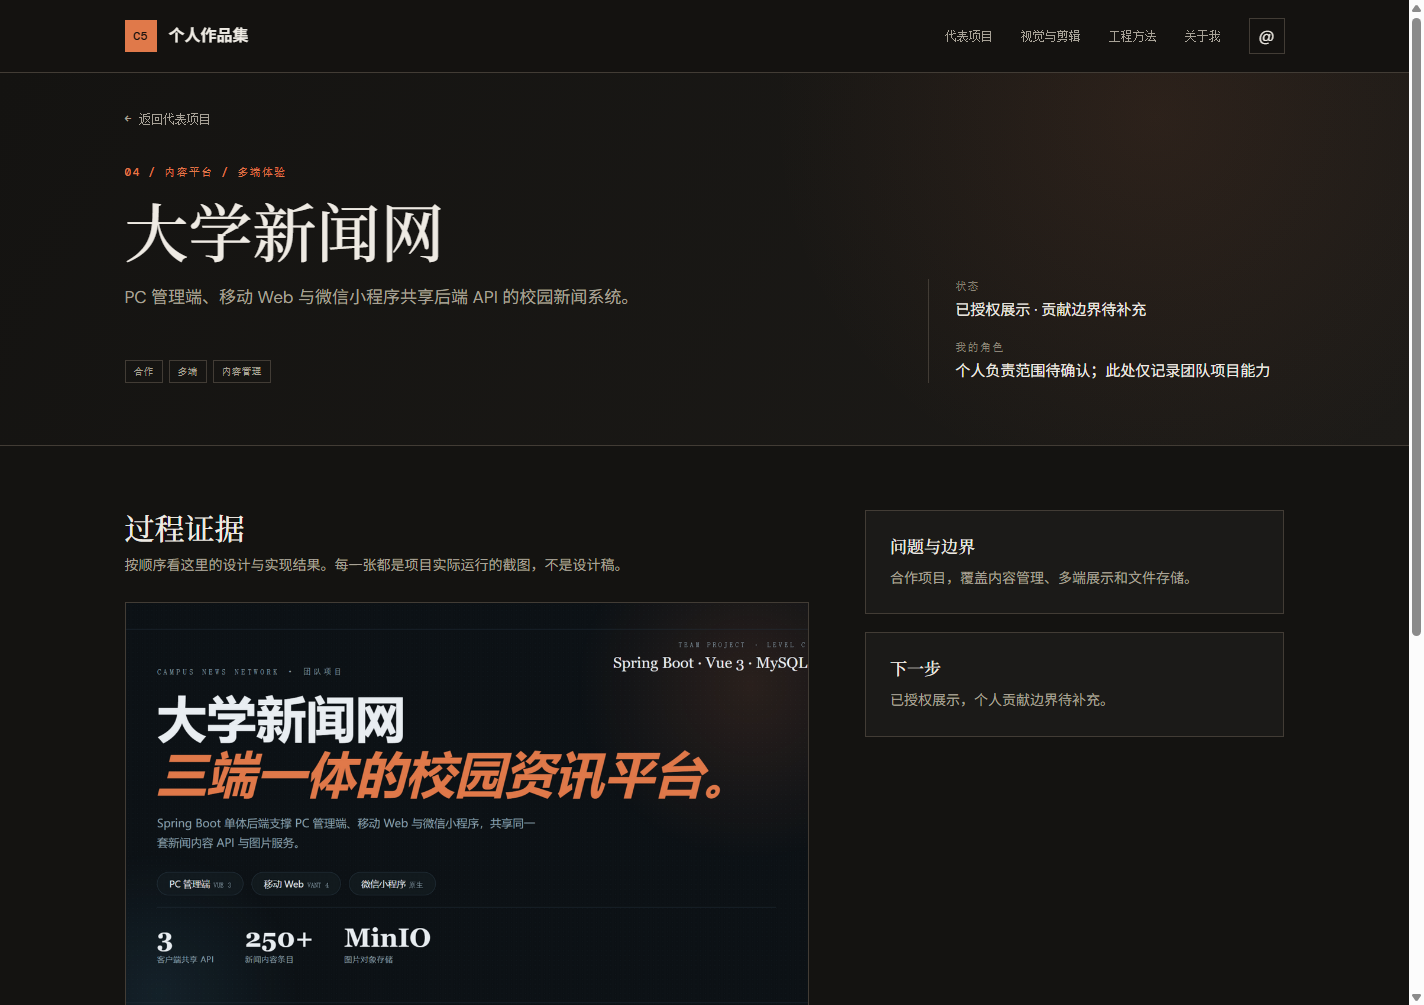
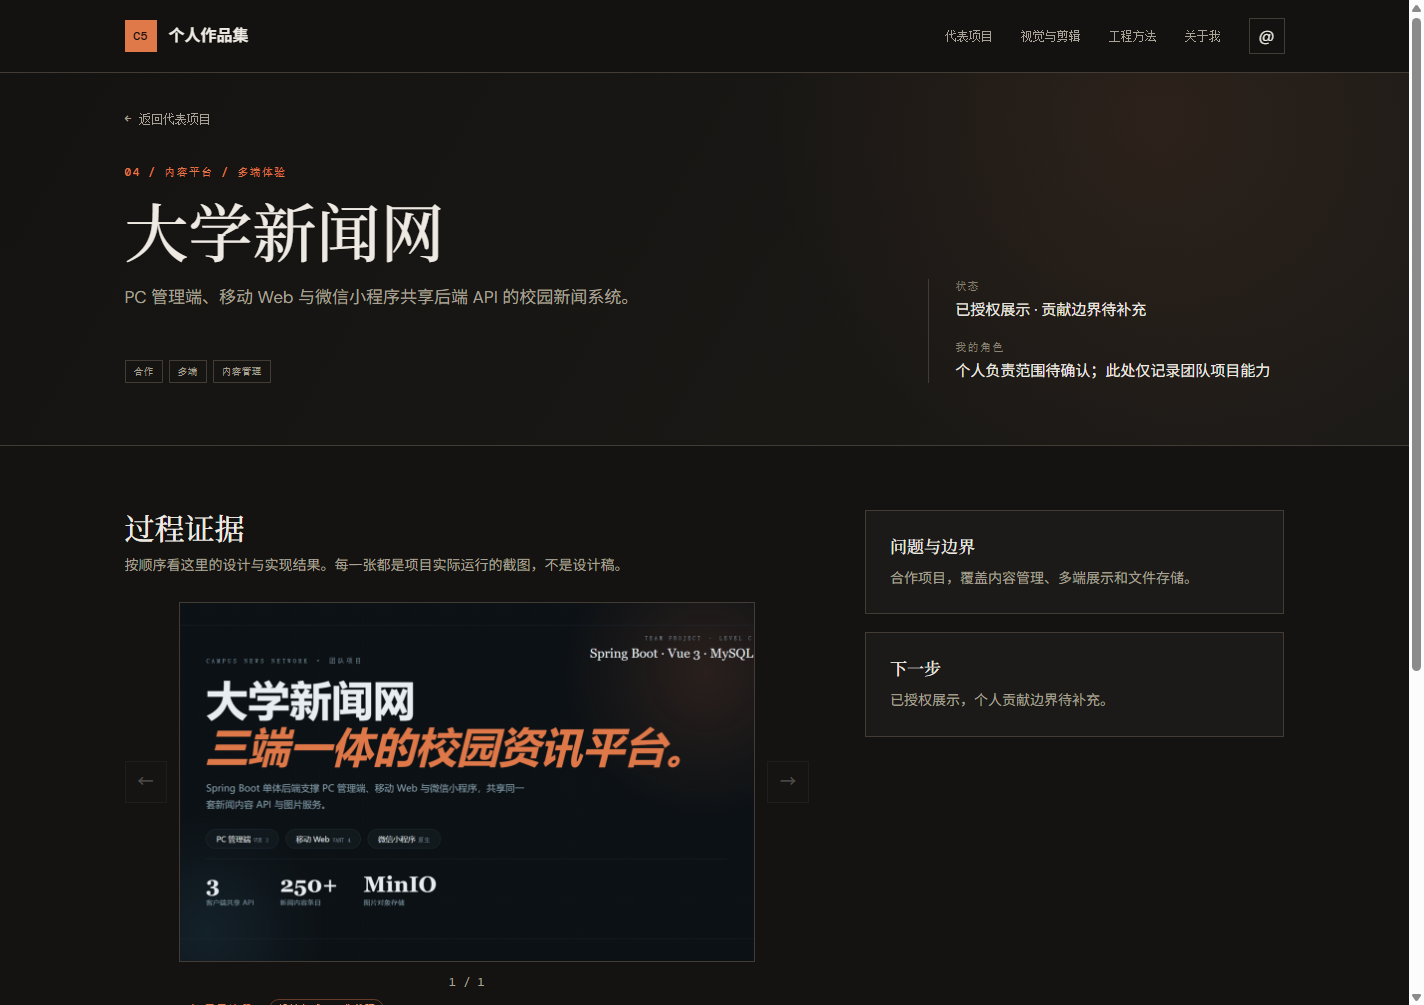
fix: place gallery arrows beside the image and add click-to-zoom
图组交互（用户反馈）：
- 左右切换按钮原先排在图片下方，现移到图片左右两侧，与图片同一行垂直居中。
- 图片原先不可放大。现点击图片打开全屏放大层，放大层内可用左右箭头继续翻页、
  用 Escape 或点击背景关闭，并显示对应的步骤与说明。图片可键盘聚焦并回车打开。
- 鼠标悬停时显示「点击放大」提示，图片有轻微缩放反馈。

文案对齐（用户反馈）：
- 两个 AI 项目的品类由「AI 产品 / 学习工具」「AI 产品 / 知识库 RAG」
  改为「语言学习 / 翻译工具」「知识库 / 检索问答」，
  与另两个项目的「品类 / 形态」写法一致。
  这与 doc/19 已确认的方向一致：AI 作为能力方向，而不是对外表达的唯一主语。
- Folio 摘要去掉了技术缩写，改为描述实际链路。
- 标签由纯技术栈改为「能力 + 技术」混合，与另两个项目一致。

验收：utils/browser-check.mjs 38 项全部通过，新增左右箭头位置、点击放大、
放大层内翻页与 Escape 关闭四项断言。

diff --git a/project/frontend/src/data/projects.js b/project/frontend/src/data/projects.js
@@ -3,8 +3,8 @@
 import { ref } from 'vue'
 
 export const fallbackProjects = [
-  { id: 1, slug: 'ai-translator', title: 'LexiFlow', repoName: 'ai-translator', summary: '面向英语学习者的无广告翻译与生词学习工具，把一次翻译延展为可持续的学习闭环。', background: '翻译、收藏、复习和统计共同组成学习闭环。', outcome: '已实现核心闭环，等待补齐正式发布证据。', role: '产品设计、全栈开发、部署与验证规划', projectType: 'AI 产品 / 学习工具', project_type: 'INDEPENDENT', status: '已实现 · 待补正式发布证据', tags: ['FastAPI', 'Vue 3', '学习闭环'], image: '/assets/v5/translator-home.png', visualKind: 'screenshot', evidence: '3 张已核验截图 · 引擎降级提示的证据待补', gallery: [{ src: '/assets/v5/translator-home.png', step: 'STEP 01 / 入口', caption: '首页「每日一词」。把工具的入口前置成每天可以回访的学习动作，而不是一次性的翻译框。' }, { src: '/assets/v5/lexiflow-translate-result.png', step: 'STEP 02 / 核心链路', caption: '真实翻译结果。输入一句英文，模型返回中文译文，下方列出可继续查词的高频词。截图取自本地实跑，不是设计稿。' }, { src: '/assets/v5/lexiflow-quota-limit.png', step: 'STEP 03 / 边界处理', caption: '匿名游客每日 3 次免费翻译，用完后不静默失败，而是引导登录。配额按匿名标识独立计数，登录用户不受限。' }] },
-  { id: 2, slug: 'ai-second-brain', title: 'Folio', repoName: 'ai-second-brain', summary: '从文档解析到 SSE 对话的知识库问答系统，让私有资料真正参与日常问答。', background: '把文档上传、切片、检索和流式对话连接起来。', outcome: '已完成独立项目闭环，正在整理公开版本证据。', role: '产品建模、Java 全栈开发、测试与部署', projectType: 'AI 产品 / 知识库 RAG', project_type: 'SOLO', status: '已实现 · 发布前复核', tags: ['RAG', 'Spring Boot', 'SSE'], image: '/assets/v5/brain-chat-cited.png', visualKind: 'screenshot', evidence: '3 张已核验截图 · 均为独立演示账号采集，不含真实资料', gallery: [{ src: '/assets/v5/secondbrain-login.png', step: 'STEP 01 / 身份入口', caption: '登录页。左侧说明产品定位，右侧为登录表单。系统区分管理员与普通用户，文档、会话与模型配置按账号隔离。' }, { src: '/assets/v5/brain-documents.png', step: 'STEP 02 / 文档管理', caption: '文档上传与处理状态。上传后经过解析、递归切片和本地 BGE 向量化，页面上显示每个文档的切片数量。截图为演示账号，未包含真实资料。' }, { src: '/assets/v5/brain-chat-cited.png', step: 'STEP 03 / 核心链路', caption: '知识库对话。回答基于检索到的片段生成，并给出引用片段与相似度分数；这份材料只覆盖了问题的一部分，回答就明确说明缺失，而不是编造补全。' }] },
+  { id: 1, slug: 'ai-translator', title: 'LexiFlow', repoName: 'ai-translator', summary: '面向英语学习者的无广告翻译与生词学习工具，把一次翻译延展为可持续的学习闭环。', background: '翻译、收藏、复习和统计共同组成学习闭环。', outcome: '已实现核心闭环，等待补齐正式发布证据。', role: '产品设计、全栈开发、部署与验证规划', projectType: '语言学习 / 翻译工具', project_type: 'INDEPENDENT', status: '已实现 · 待补正式发布证据', tags: ['翻译', '生词复习', 'FastAPI'], image: '/assets/v5/translator-home.png', visualKind: 'screenshot', evidence: '3 张已核验截图 · 引擎降级提示的证据待补', gallery: [{ src: '/assets/v5/translator-home.png', step: 'STEP 01 / 入口', caption: '首页「每日一词」。把工具的入口前置成每天可以回访的学习动作，而不是一次性的翻译框。' }, { src: '/assets/v5/lexiflow-translate-result.png', step: 'STEP 02 / 核心链路', caption: '真实翻译结果。输入一句英文，模型返回中文译文，下方列出可继续查词的高频词。截图取自本地实跑，不是设计稿。' }, { src: '/assets/v5/lexiflow-quota-limit.png', step: 'STEP 03 / 边界处理', caption: '匿名游客每日 3 次免费翻译，用完后不静默失败，而是引导登录。配额按匿名标识独立计数，登录用户不受限。' }] },
+  { id: 2, slug: 'ai-second-brain', title: 'Folio', repoName: 'ai-second-brain', summary: '把文档整理、切片检索与问答连成一条链路，回答只依据上传的资料，并标注来源。', background: '把文档上传、切片、检索和流式对话连接起来。', outcome: '已完成独立项目闭环，正在整理公开版本证据。', role: '产品建模、Java 全栈开发、测试与部署', projectType: '知识库 / 检索问答', project_type: 'SOLO', status: '已实现 · 发布前复核', tags: ['文档检索', '引用溯源', 'Spring Boot'], image: '/assets/v5/brain-chat-cited.png', visualKind: 'screenshot', evidence: '3 张已核验截图 · 均为独立演示账号采集，不含真实资料', gallery: [{ src: '/assets/v5/secondbrain-login.png', step: 'STEP 01 / 身份入口', caption: '登录页。左侧说明产品定位，右侧为登录表单。系统区分管理员与普通用户，文档、会话与模型配置按账号隔离。' }, { src: '/assets/v5/brain-documents.png', step: 'STEP 02 / 文档管理', caption: '文档上传与处理状态。上传后经过解析、递归切片和本地 BGE 向量化，页面上显示每个文档的切片数量。截图为演示账号，未包含真实资料。' }, { src: '/assets/v5/brain-chat-cited.png', step: 'STEP 03 / 核心链路', caption: '知识库对话。回答基于检索到的片段生成，并给出引用片段与相似度分数；这份材料只覆盖了问题的一部分，回答就明确说明缺失，而不是编造补全。' }] },
   { id: 3, slug: 'zhiheng-teaching', title: '高中个性化教学平台 · 知衡', summary: '围绕题库、考试、掌握度、错题和练习构建三角色教学分析闭环。', background: '用清晰的数据流连接管理员、老师和学生的日常工作。', outcome: '补齐学生端与管理员端页面、知识点建表与知识图谱，然后处理部署。当前为单机演示数据，未压测、未部署。', role: '产品定义、信息架构、Java 后端与 Vue 前端开发、测试与验收', projectType: '教育产品 / 全栈应用', project_type: 'INDEPENDENT', status: '教师端考试闭环已交付 · 学生端后端完成、前端待补', tags: ['Spring Boot', 'Vue 3', '三角色'], image: '/assets/v5/zhiheng-dashboard.png', visualKind: 'screenshot', evidence: '真实前后端与数据库 · 8 次版本化迁移 · 51 项后端测试 · 考试分析页存在接口缺陷待修', gallery: [{ src: '/assets/v5/zhiheng-dashboard.png', step: 'STEP 01 / 教师工作台', caption: '教师工作台。班级平均掌握度、待批改考试、需关注学生与可用题目数都由最近一次真实考试的结果聚合得出，数据来自后端接口而非写死的演示值。' }, { src: '/assets/v5/zhiheng-questions.png', step: 'STEP 02 / 题库管理', caption: '题库管理：支持单选、多选、判断、填空、解答五种题型，可维护知识点、难度与分值，也支持按模板 Excel 批量导入。' }, { src: '/assets/v5/zhiheng-grading.png', step: 'STEP 03 / 逐题改卷', caption: '逐题改卷。按学生逐题录入得分，前端限制分数不得超过该题满分，左侧实时显示每位学生的录入进度。这是线下考试闭环里最关键的一步。' }] },
   { id: 4, slug: 'university-news', title: '大学新闻网', summary: 'PC 管理端、移动 Web 与微信小程序共享后端 API 的校园新闻系统。', background: '合作项目，覆盖内容管理、多端展示和文件存储。', outcome: '已授权展示，个人贡献边界待补充。', role: '个人负责范围待确认；此处仅记录团队项目能力', projectType: '内容平台 / 多端体验', project_type: 'COLLABORATIVE', status: '已授权展示 · 贡献边界待补充', tags: ['合作', '多端', '内容管理'], image: '/assets/v5/news-cover.png', visualKind: 'layout', evidence: '当前仅有设计版式 · 截图需先确认团队授权与贡献边界', gallery: [{ src: '/assets/v5/news-cover.png', step: 'STEP 01 / 展示边界', caption: '这一张是设计版式，不是系统截图。合作项目在取得团队授权前，不使用学校实景与具体新闻内容，个人贡献边界同样待确认。' }] },
 ]

diff --git a/project/frontend/src/style.css b/project/frontend/src/style.css
@@ -3,13 +3,24 @@
 @media(max-width:900px){.shell{width:min(100% - 40px,680px)}.hero-grid,.about-grid,.section-heading{grid-template-columns:1fr;gap:34px}.hero-section{min-height:auto}.hero-grid{padding:72px 0}.hero-facts{padding-left:0;border-left:0}.nav-links{position:absolute;top:72px;left:0;right:0;display:none;flex-direction:column;gap:0;margin:0;padding:12px 20px 18px;background:var(--panel);border-bottom:1px solid var(--line)}.nav-links.open{display:flex}.nav-links a{padding:12px 0}.menu-button{display:grid}.project-card{grid-template-columns:1fr}.project-visual{min-height:210px;grid-row:1}.project-card-body{min-height:300px}.holding-row{grid-template-columns:1fr;gap:12px}.holding-row .hold-status{justify-self:start}.method-list article{grid-template-columns:55px 1fr;gap:12px}.method-list p{grid-column:2}.footer-wrap{flex-wrap:wrap;gap:14px}.drawer{padding:22px 20px}.drawer h2{font-size:36px}}
 @media(prefers-reduced-motion:reduce){*,*:before,*:after{scroll-behavior:auto!important;transition:none!important}}
 .gallery{display:grid;gap:12px;margin:0 0 26px}
-.gallery-stage{margin:0;border:1px solid var(--line);background:var(--panel-2);aspect-ratio:16/10;overflow:hidden}
-.gallery-stage img{width:100%;height:100%;object-fit:cover;object-position:top center;display:block}
-.gallery-bar{display:flex;align-items:center;gap:12px;font:12px var(--mono);color:var(--muted)}
-.gallery-bar button{width:36px;height:32px;border:1px solid var(--line);background:transparent;color:var(--ink)}
-.gallery-bar button:hover:not(:disabled){border-color:var(--warm);color:var(--warm-soft)}
-.gallery-bar button:disabled{opacity:.3;cursor:not-allowed}
-.gallery-bar span{margin:0 auto}
+.gallery-frame{position:relative;display:grid;grid-template-columns:auto 1fr auto;align-items:center;gap:12px}
+.gallery-stage{position:relative;margin:0;border:1px solid var(--line);background:var(--panel-2);aspect-ratio:16/10;overflow:hidden;cursor:zoom-in}
+.gallery-stage img{width:100%;height:100%;object-fit:cover;object-position:top center;display:block;transition:transform .5s cubic-bezier(.22,.61,.36,1)}
+.gallery-stage:hover img{transform:scale(1.02)}
+.gallery-stage:focus-visible{outline:2px solid var(--warm);outline-offset:3px}
+.gallery-zoom{position:absolute;right:12px;bottom:12px;padding:5px 11px;border:1px solid var(--line);background:rgba(20,19,17,.82);color:var(--ink);font:11px var(--mono);opacity:0;transition:opacity .25s ease}
+.gallery-stage:hover .gallery-zoom,.gallery-stage:focus-visible .gallery-zoom{opacity:1}
+.gallery-nav{width:42px;height:42px;border:1px solid var(--line);background:var(--panel);color:var(--ink);font-size:16px;line-height:1;transition:border-color .25s ease,color .25s ease}
+.gallery-nav:hover:not(:disabled){border-color:var(--warm);color:var(--warm-soft)}
+.gallery-nav:focus-visible{outline:2px solid var(--warm);outline-offset:3px}
+.gallery-nav:disabled{opacity:.28;cursor:not-allowed}
+.gallery-bar{display:flex;justify-content:center;font:12px var(--mono);color:var(--muted)}
+.lightbox{position:fixed;inset:0;z-index:60;display:grid;grid-template-columns:auto 1fr auto;align-items:center;gap:18px;padding:56px 40px;background:rgba(8,8,7,.94);backdrop-filter:blur(6px)}
+.lightbox img{max-width:100%;max-height:calc(100vh - 180px);width:auto;margin:0 auto;object-fit:contain;border:1px solid var(--line);background:var(--panel-2)}
+.lightbox-close{position:absolute;top:20px;right:24px;width:40px;height:40px;border:1px solid var(--line);background:transparent;color:var(--ink);font-size:20px;line-height:1}
+.lightbox-close:hover{border-color:var(--warm);color:var(--warm-soft)}
+.lightbox-caption{position:absolute;left:48px;right:48px;bottom:22px;margin:0;color:var(--muted);font-size:13px;text-align:center}
+.lightbox-caption strong{margin-right:10px;color:var(--warm);font:500 11px var(--mono);letter-spacing:.1em}
 .gallery-copy{display:grid;gap:6px}
 .gallery-step{margin:0;color:var(--warm);font:500 11px var(--mono);letter-spacing:.12em;text-transform:uppercase}
 .gallery-kind{margin-left:8px;padding:2px 8px;border:1px solid rgba(224,121,74,.4);border-radius:999px;color:var(--warm-soft);letter-spacing:0;text-transform:none}
@@ -21,7 +32,7 @@
 .gallery-thumbs img{width:100%;height:100%;object-fit:cover;object-position:top center;display:block}
 .gallery-hint,.gallery-evidence{margin:0;font:11px var(--mono);color:var(--faint)}
 .gallery-evidence{border-left:2px solid var(--line);padding-left:10px;line-height:1.7}
-@media(max-width:900px){.gallery-stage{aspect-ratio:4/3}.gallery-thumbs button{width:58px;height:38px}}
+@media(max-width:900px){.gallery-stage{aspect-ratio:4/3}.gallery-thumbs button{width:58px;height:38px}.gallery-frame{gap:8px}.gallery-nav{width:36px;height:36px;font-size:15px}.lightbox{padding:20px;gap:8px}.lightbox img{max-height:calc(100vh - 150px)}.lightbox-caption{left:20px;right:20px;bottom:14px;font-size:12px}}
 a.project-card{text-decoration:none;color:inherit}
 a.project-card:focus-visible{outline:2px solid var(--warm);outline-offset:3px}
 .detail-page{padding-bottom:40px}

diff --git a/project/frontend/src/views/ProjectView.vue b/project/frontend/src/views/ProjectView.vue
@@ -7,6 +7,7 @@ const route = useRoute()
 const project = ref(null)
 const status = ref('loading')
 const galleryIndex = ref(0)
+const zoomed = ref(false)
 
 const slides = computed(() => galleryOf(project.value))
 const currentSlide = computed(() => slides.value[galleryIndex.value] || null)
@@ -40,6 +41,10 @@ function galleryNext() {
   galleryIndex.value = (galleryIndex.value + 1) % total
 }
 function onKeydown(event) {
+  if (event.key === 'Escape' && zoomed.value) {
+    zoomed.value = false
+    return
+  }
   if (event.key === 'ArrowLeft') galleryPrev()
   if (event.key === 'ArrowRight') galleryNext()
 }
@@ -92,13 +97,16 @@ watch(() => route.params.slug, slug => { if (slug) load(slug) })
             <p class="detail-note">按顺序看这里的设计与实现结果。每一张都是项目实际运行的截图，不是设计稿。</p>
 
             <div v-if="currentSlide" class="gallery">
-              <figure class="gallery-stage">
-                <img :src="currentSlide.src" :alt="`${project.title} ${currentSlide.step}`" />
-              </figure>
+              <div class="gallery-frame">
+                <button type="button" class="gallery-nav is-prev" :disabled="slides.length < 2" aria-label="上一张截图" @click="galleryPrev">←</button>
+                <figure class="gallery-stage" role="button" tabindex="0" aria-label="点击放大查看截图" @click="zoomed = true" @keydown.enter.prevent="zoomed = true" @keydown.space.prevent="zoomed = true">
+                  <img :src="currentSlide.src" :alt="`${project.title} ${currentSlide.step}`" />
+                  <span class="gallery-zoom">点击放大</span>
+                </figure>
+                <button type="button" class="gallery-nav is-next" :disabled="slides.length < 2" aria-label="下一张截图" @click="galleryNext">→</button>
+              </div>
               <div class="gallery-bar">
-                <button type="button" :disabled="slides.length < 2" aria-label="上一张截图" @click="galleryPrev">←</button>
                 <span>{{ galleryIndex + 1 }} / {{ slides.length }}</span>
-                <button type="button" :disabled="slides.length < 2" aria-label="下一张截图" @click="galleryNext">→</button>
               </div>
               <div class="gallery-copy">
                 <p class="gallery-step">
@@ -121,8 +129,16 @@ watch(() => route.params.slug, slug => { if (slug) load(slug) })
                   <img :src="slide.src" alt="" />
                 </button>
               </div>
-              <p class="gallery-hint">← → 切换截图</p>
+              <p class="gallery-hint">← → 切换截图 · 点击图片放大</p>
               <p v-if="project.evidence" class="gallery-evidence">证据状态：{{ project.evidence }}</p>
+            </div>
+
+            <div v-if="zoomed && currentSlide" class="lightbox" role="dialog" aria-modal="true" aria-label="放大查看截图" @click.self="zoomed = false">
+              <button type="button" class="lightbox-close" aria-label="关闭放大" @click="zoomed = false">×</button>
+              <button type="button" class="gallery-nav is-prev" :disabled="slides.length < 2" aria-label="上一张截图" @click.stop="galleryPrev">←</button>
+              <img :src="currentSlide.src" :alt="`${project.title} ${currentSlide.step}`" />
+              <button type="button" class="gallery-nav is-next" :disabled="slides.length < 2" aria-label="下一张截图" @click.stop="galleryNext">→</button>
+              <p class="lightbox-caption"><strong>{{ currentSlide.step }}</strong>{{ currentSlide.caption }}</p>
             </div>
           </div>
 
